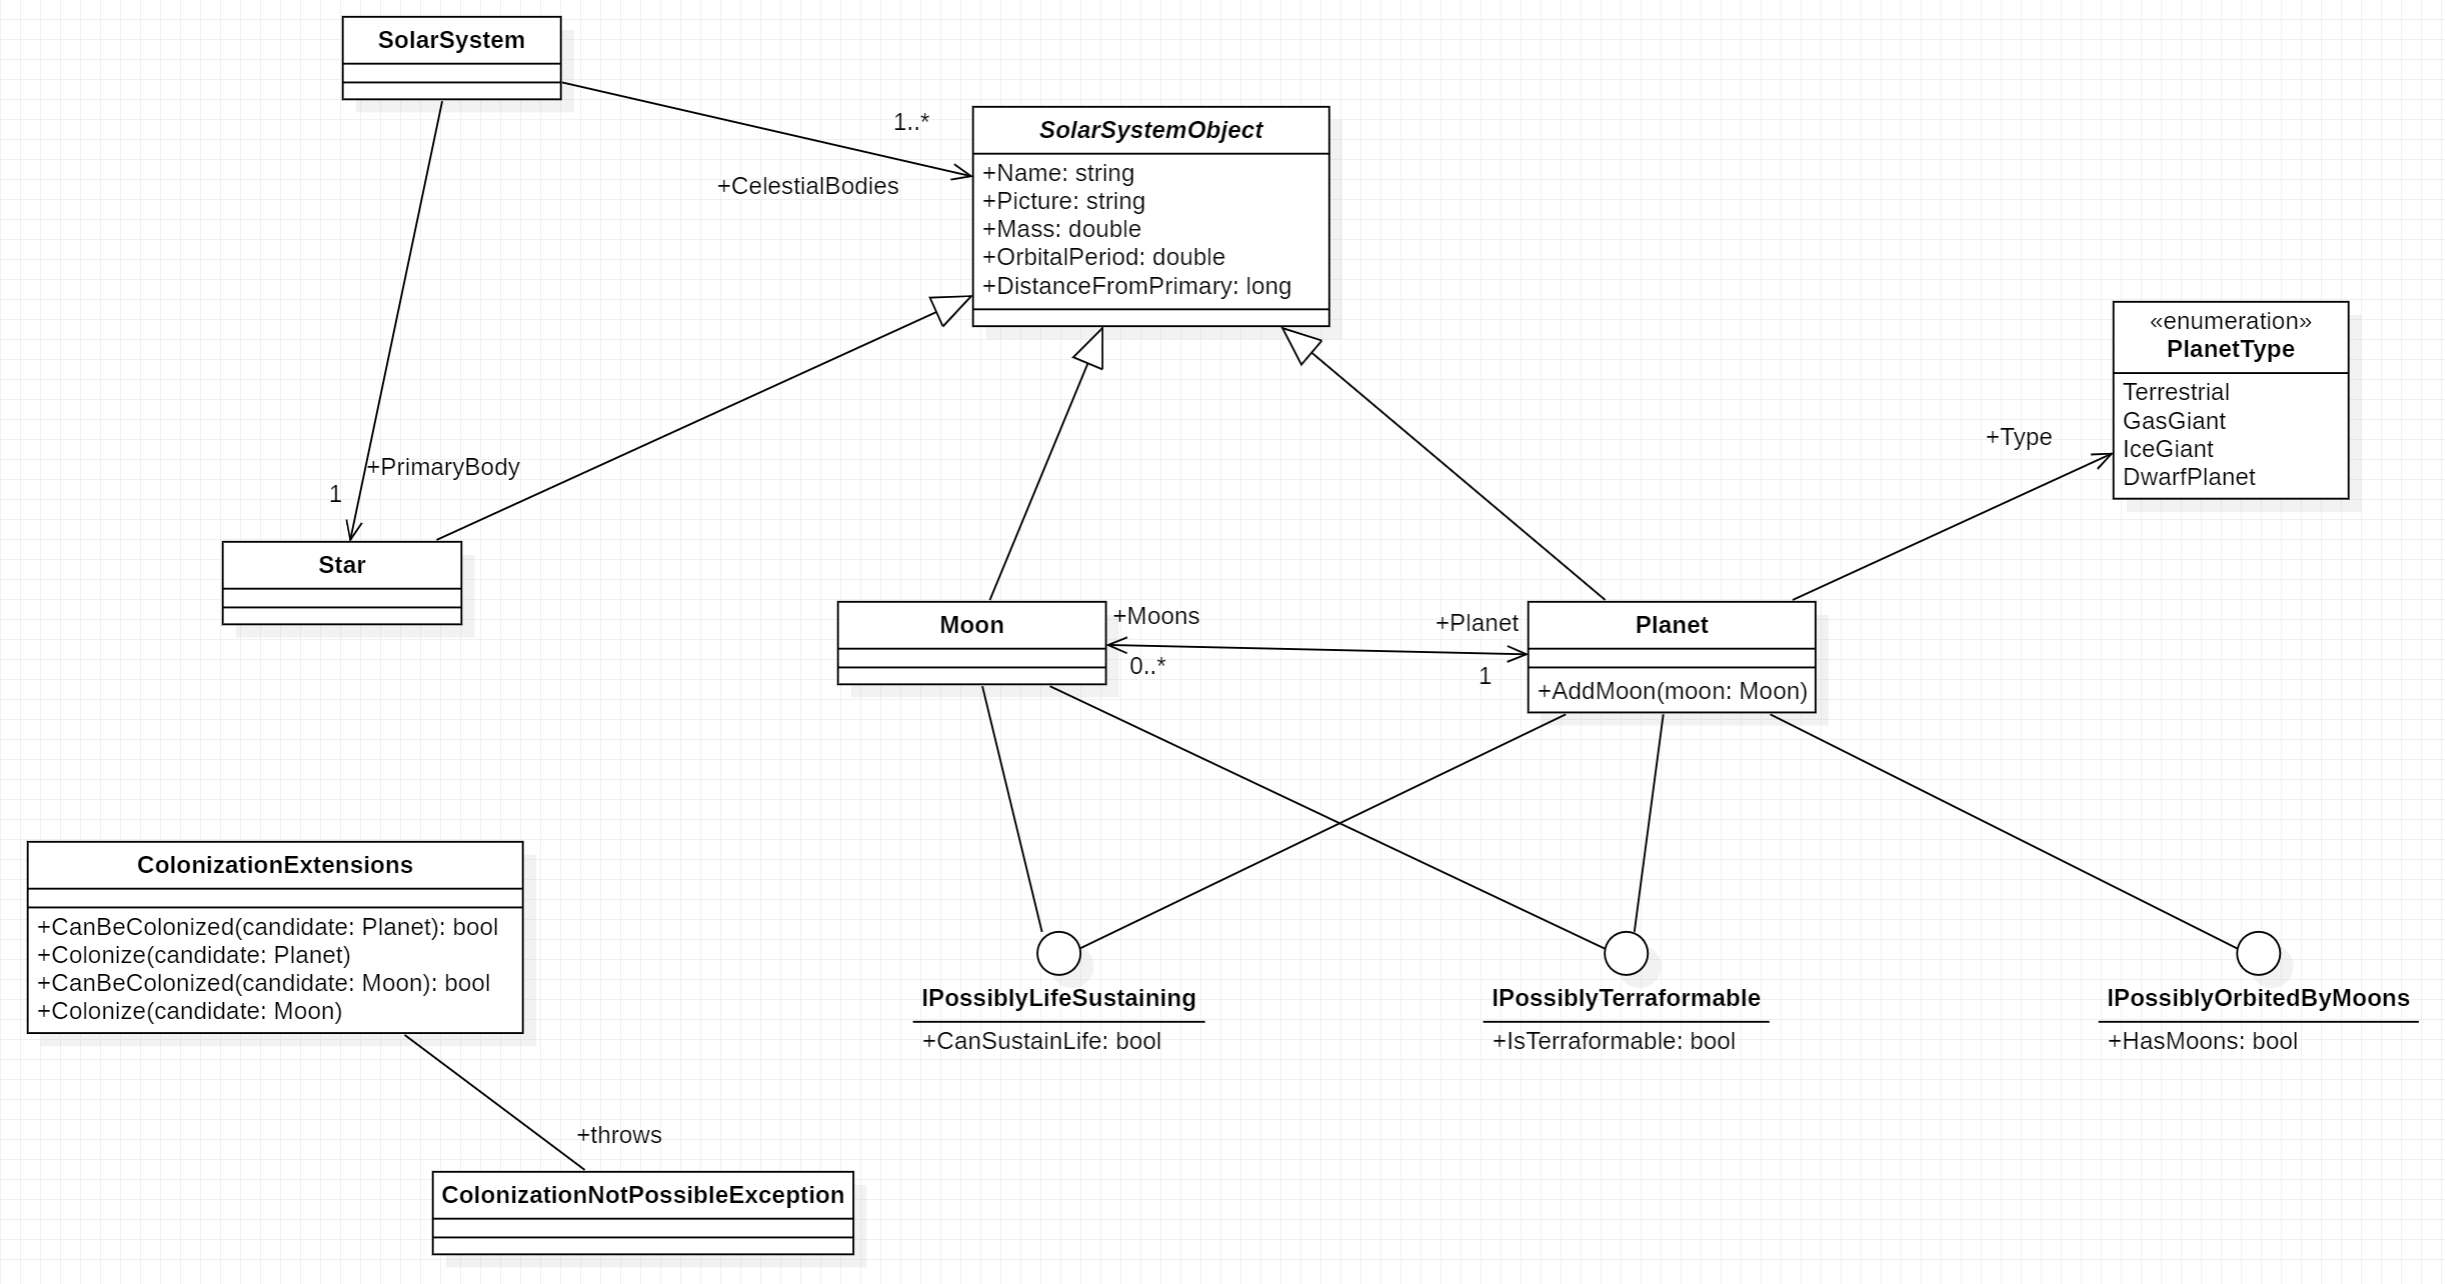
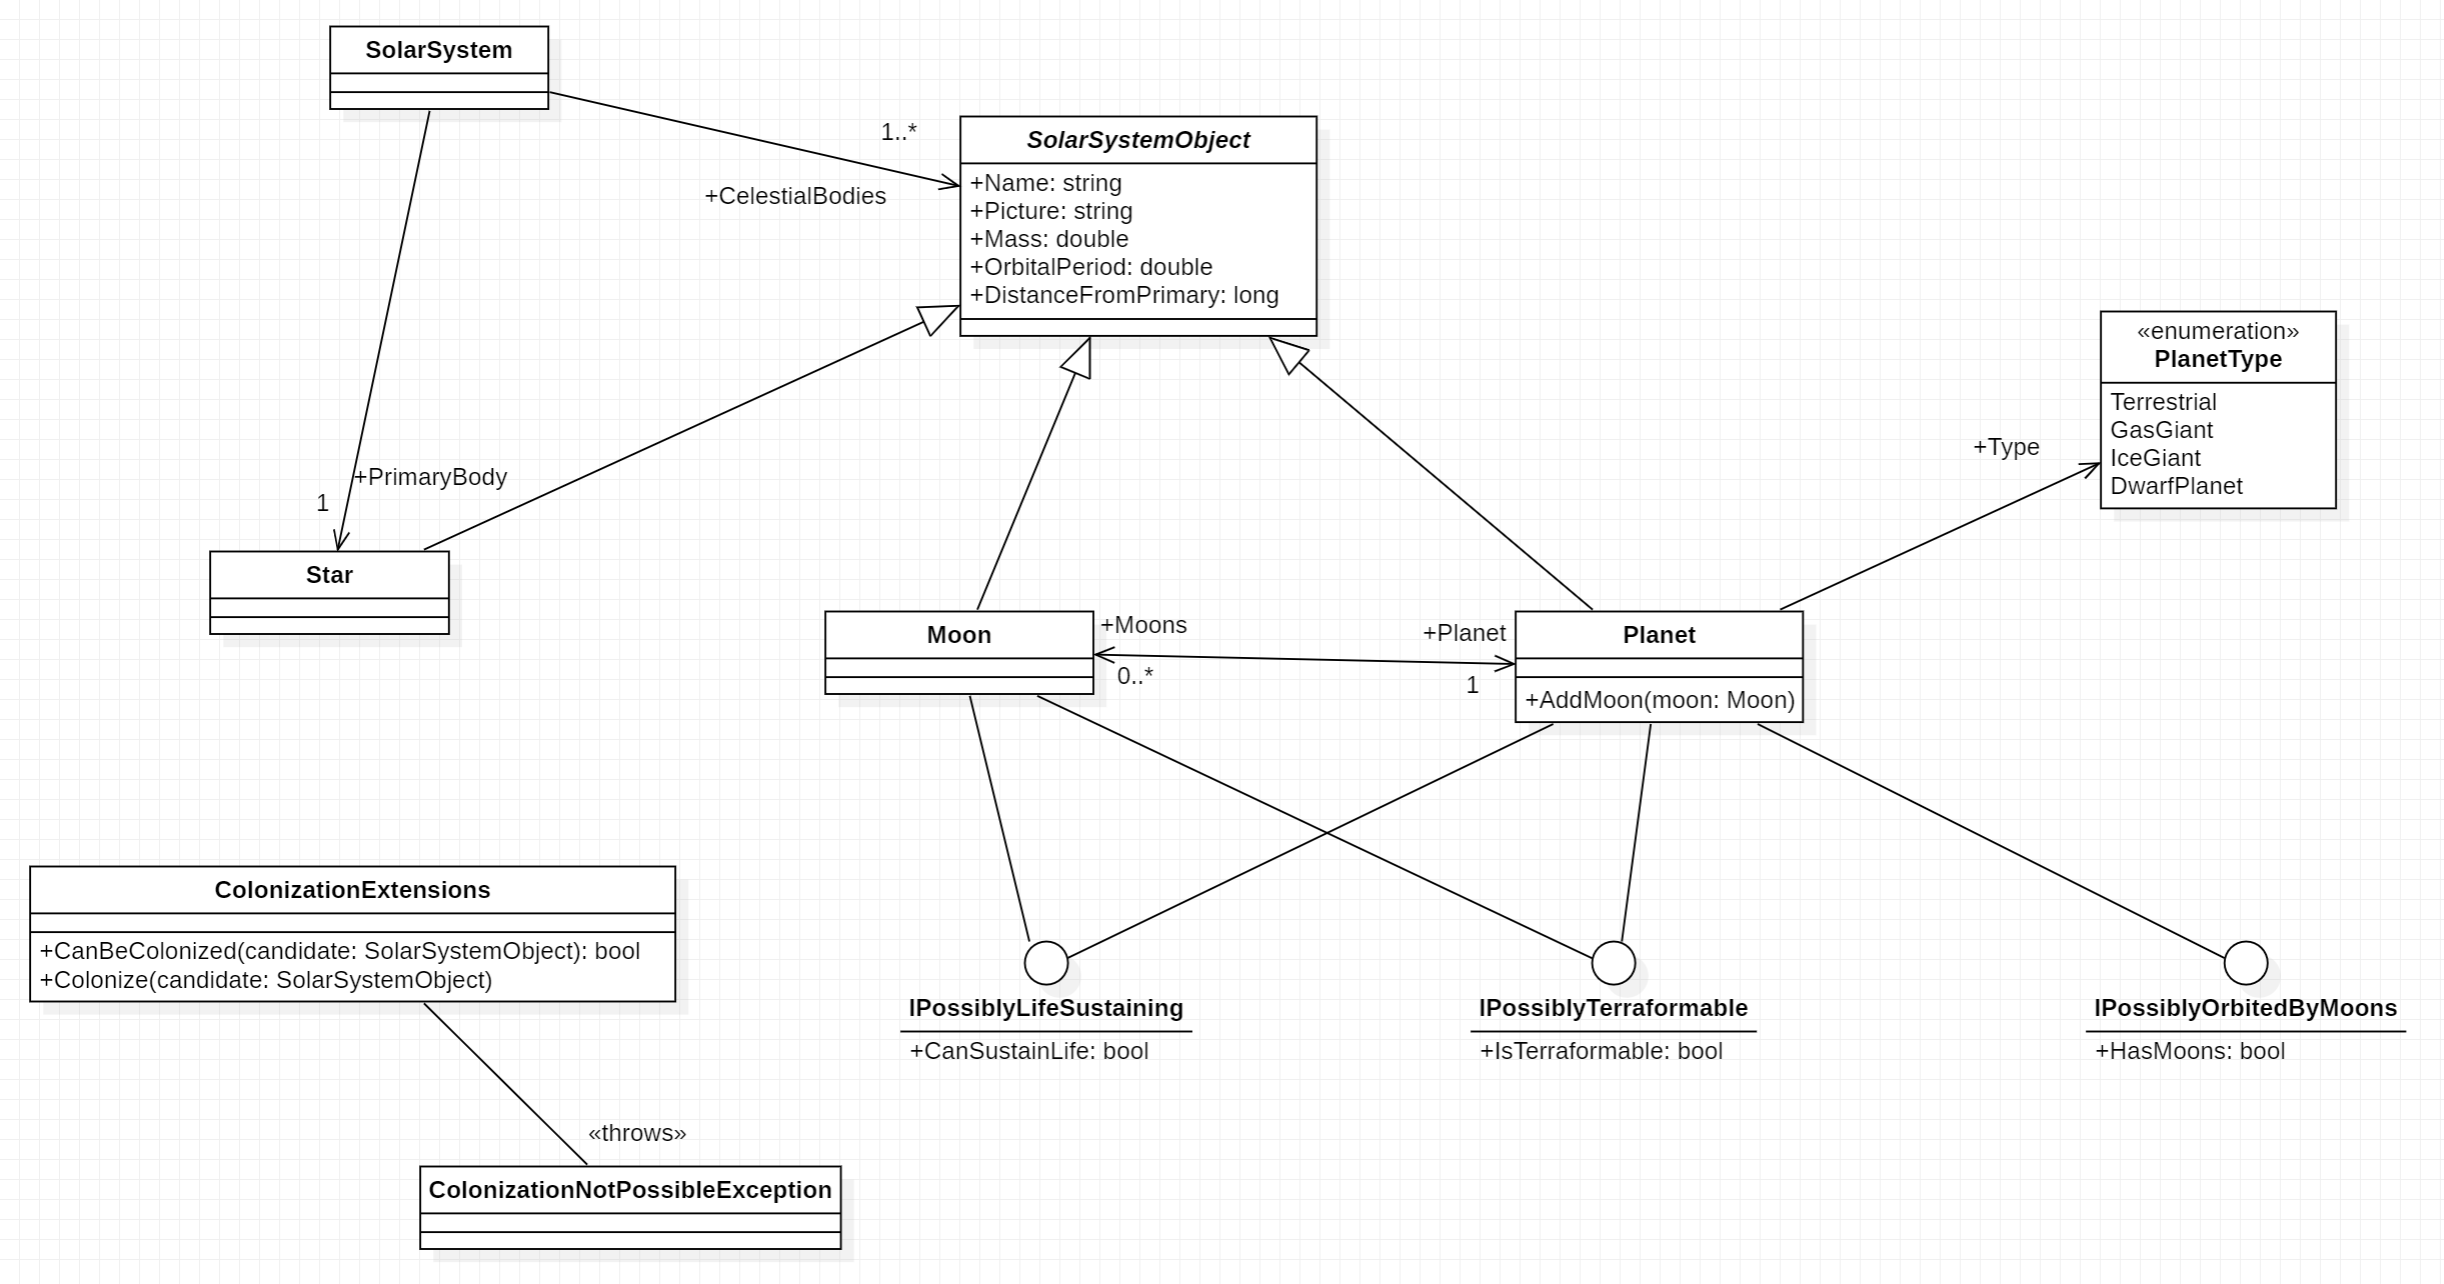
Colonization extension methods now act upon the base SolarSystemObject type.

diff --git a/Aihr.SolarSystem/Extensions/ColonizationExtensions.cs b/Aihr.SolarSystem/Extensions/ColonizationExtensions.cs
@@ -3,65 +3,35 @@
 namespace Aihr.SolarSystem.Extensions
 {
     /// <summary>
-    /// Per the assignment, provides extension methods for colonizing candidate planets and moons.
+    /// Per the assignment, provides extension methods for colonizing celestial bodies, with planets and moons being potential candidates.
     /// </summary>
     public static class ColonizationExtensions
     {
         /// <summary>
-        /// Checks to see if a planet can be colonized.
+        /// Checks to see if a celestial body can be colonized.
         /// </summary>
         /// <param name="candidate"></param>
         /// <returns><c>true</c> or <c>false</c> as <paramref name="candidate"/> can either be colonized or not.</returns>
-        public static bool CanBeColonized(this Planet candidate)
+        public static bool CanBeColonized(this SolarSystemObject candidate)
         {
             return (candidate is IPossiblyLifeSustaining possiblyLifeSustaining && possiblyLifeSustaining.CanSustainLife)
                 || (candidate is IPossiblyTerraformable possiblyTerraformable && possiblyTerraformable.IsTerraformable);
         }
 
         /// <summary>
-        /// Performs the actual act of colonizing a planet.
+        /// Performs the actual act of colonizing the celestial body.
         /// </summary>
         /// <param name="candidate"></param>
         /// <exception cref="ColonizationNotPossibleException">If <paramref name="candidate"/> is not fit for colonization. 
-        /// Determine that first using <see cref="CanBeColonized(Planet)"/>.</exception>
-        public static void Colonize(this Planet candidate)
+        /// Determine that first using the <see cref="CanBeColonized(SolarSystemObject)"/> method.</exception>
+        public static void Colonize(this SolarSystemObject candidate)
         {
             if (!candidate.CanBeColonized())
             {
-                ThrowColonizationNotPossibleExceptionWithDefaultMessage(candidate);
+                throw new ColonizationNotPossibleException($"Colonization of {candidate.Name} is not possible; it neither sustains life naturally, nor can it be terraformed.");
             }
 
             // TODO: Colonize
         }
-
-        /// <summary>
-        /// Checks to see if a moon can be colonized.
-        /// </summary>
-        /// <param name="candidate"></param>
-        /// <returns><c>true</c> or <c>false</c> as <paramref name="candidate"/> can either be colonized or not.</returns>
-        public static bool CanBeColonized(this Moon candidate)
-        {
-            return (candidate is IPossiblyLifeSustaining possiblyLifeSustaining && possiblyLifeSustaining.CanSustainLife)
-                || (candidate is IPossiblyTerraformable possiblyTerraformable && possiblyTerraformable.IsTerraformable);
-        }
-
-        /// <summary>
-        /// Performs the actual act of colonizing a moon.
-        /// </summary>
-        /// <param name="candidate"></param>
-        /// <exception cref="ColonizationNotPossibleException">If <paramref name="candidate"/> is not fit for colonization. 
-        /// Determine that first using <see cref="CanBeColonized(Moon)"/>.</exception>
-        public static void Colonize(this Moon candidate)
-        {
-            if (!candidate.CanBeColonized())
-            {
-                ThrowColonizationNotPossibleExceptionWithDefaultMessage(candidate);
-            }
-
-            // TODO: Colonize
-        }
-
-        private static string ThrowColonizationNotPossibleExceptionWithDefaultMessage(SolarSystemObject candidate)
-            => throw new ColonizationNotPossibleException($"Colonization of {candidate.Name} is not possible; it neither sustains life naturally, nor can it be terraformed.");
     }
 }
